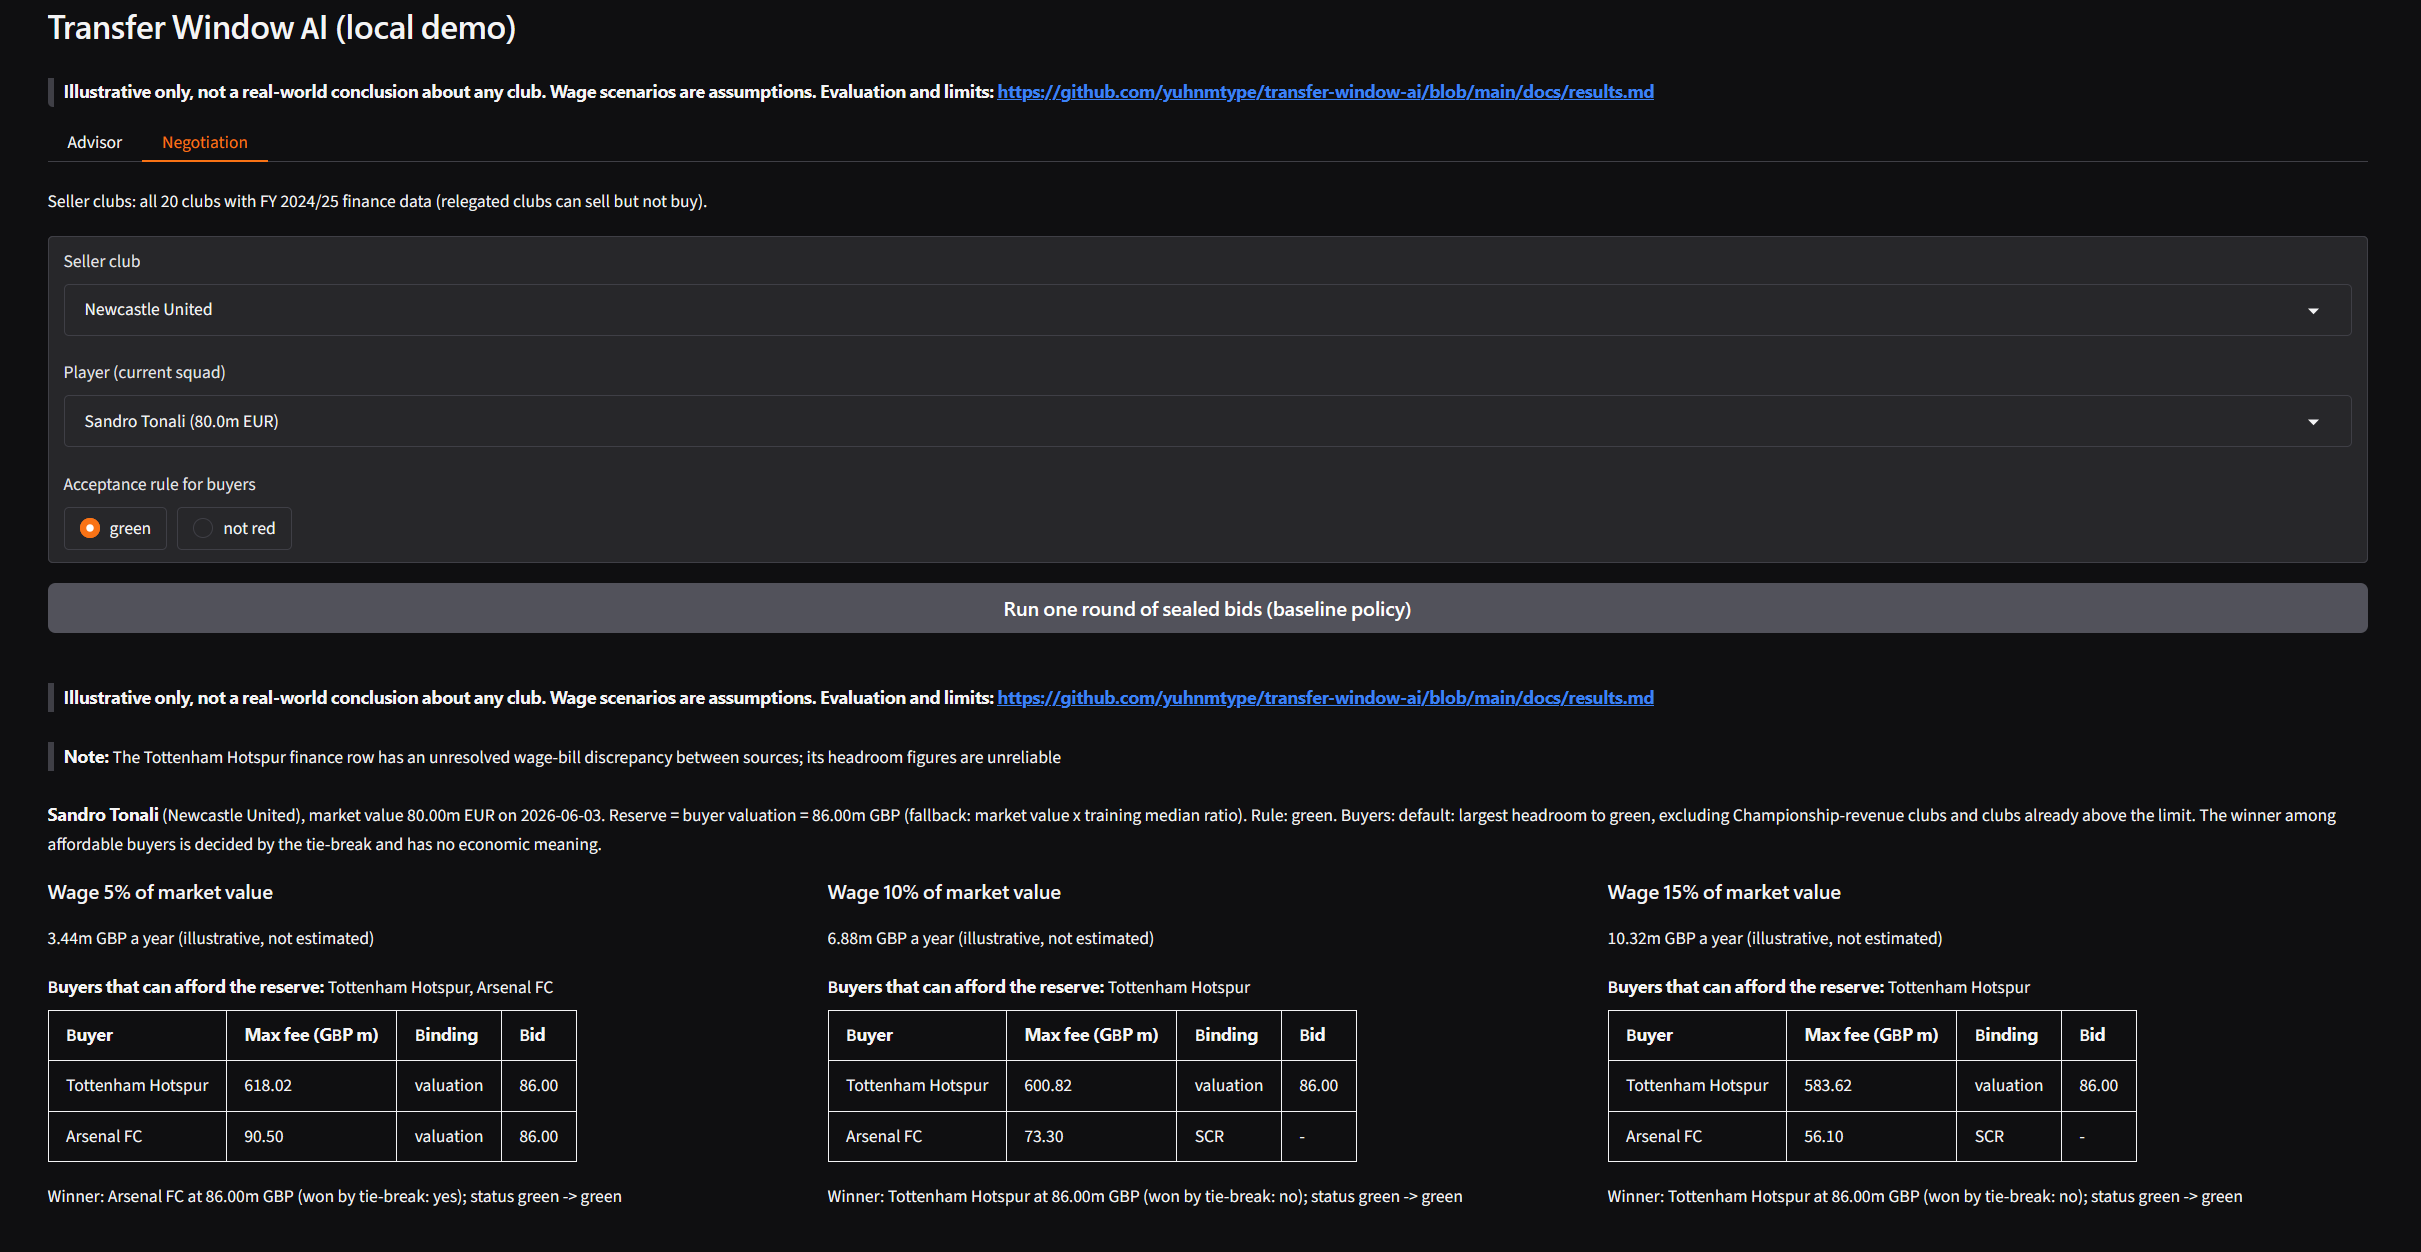
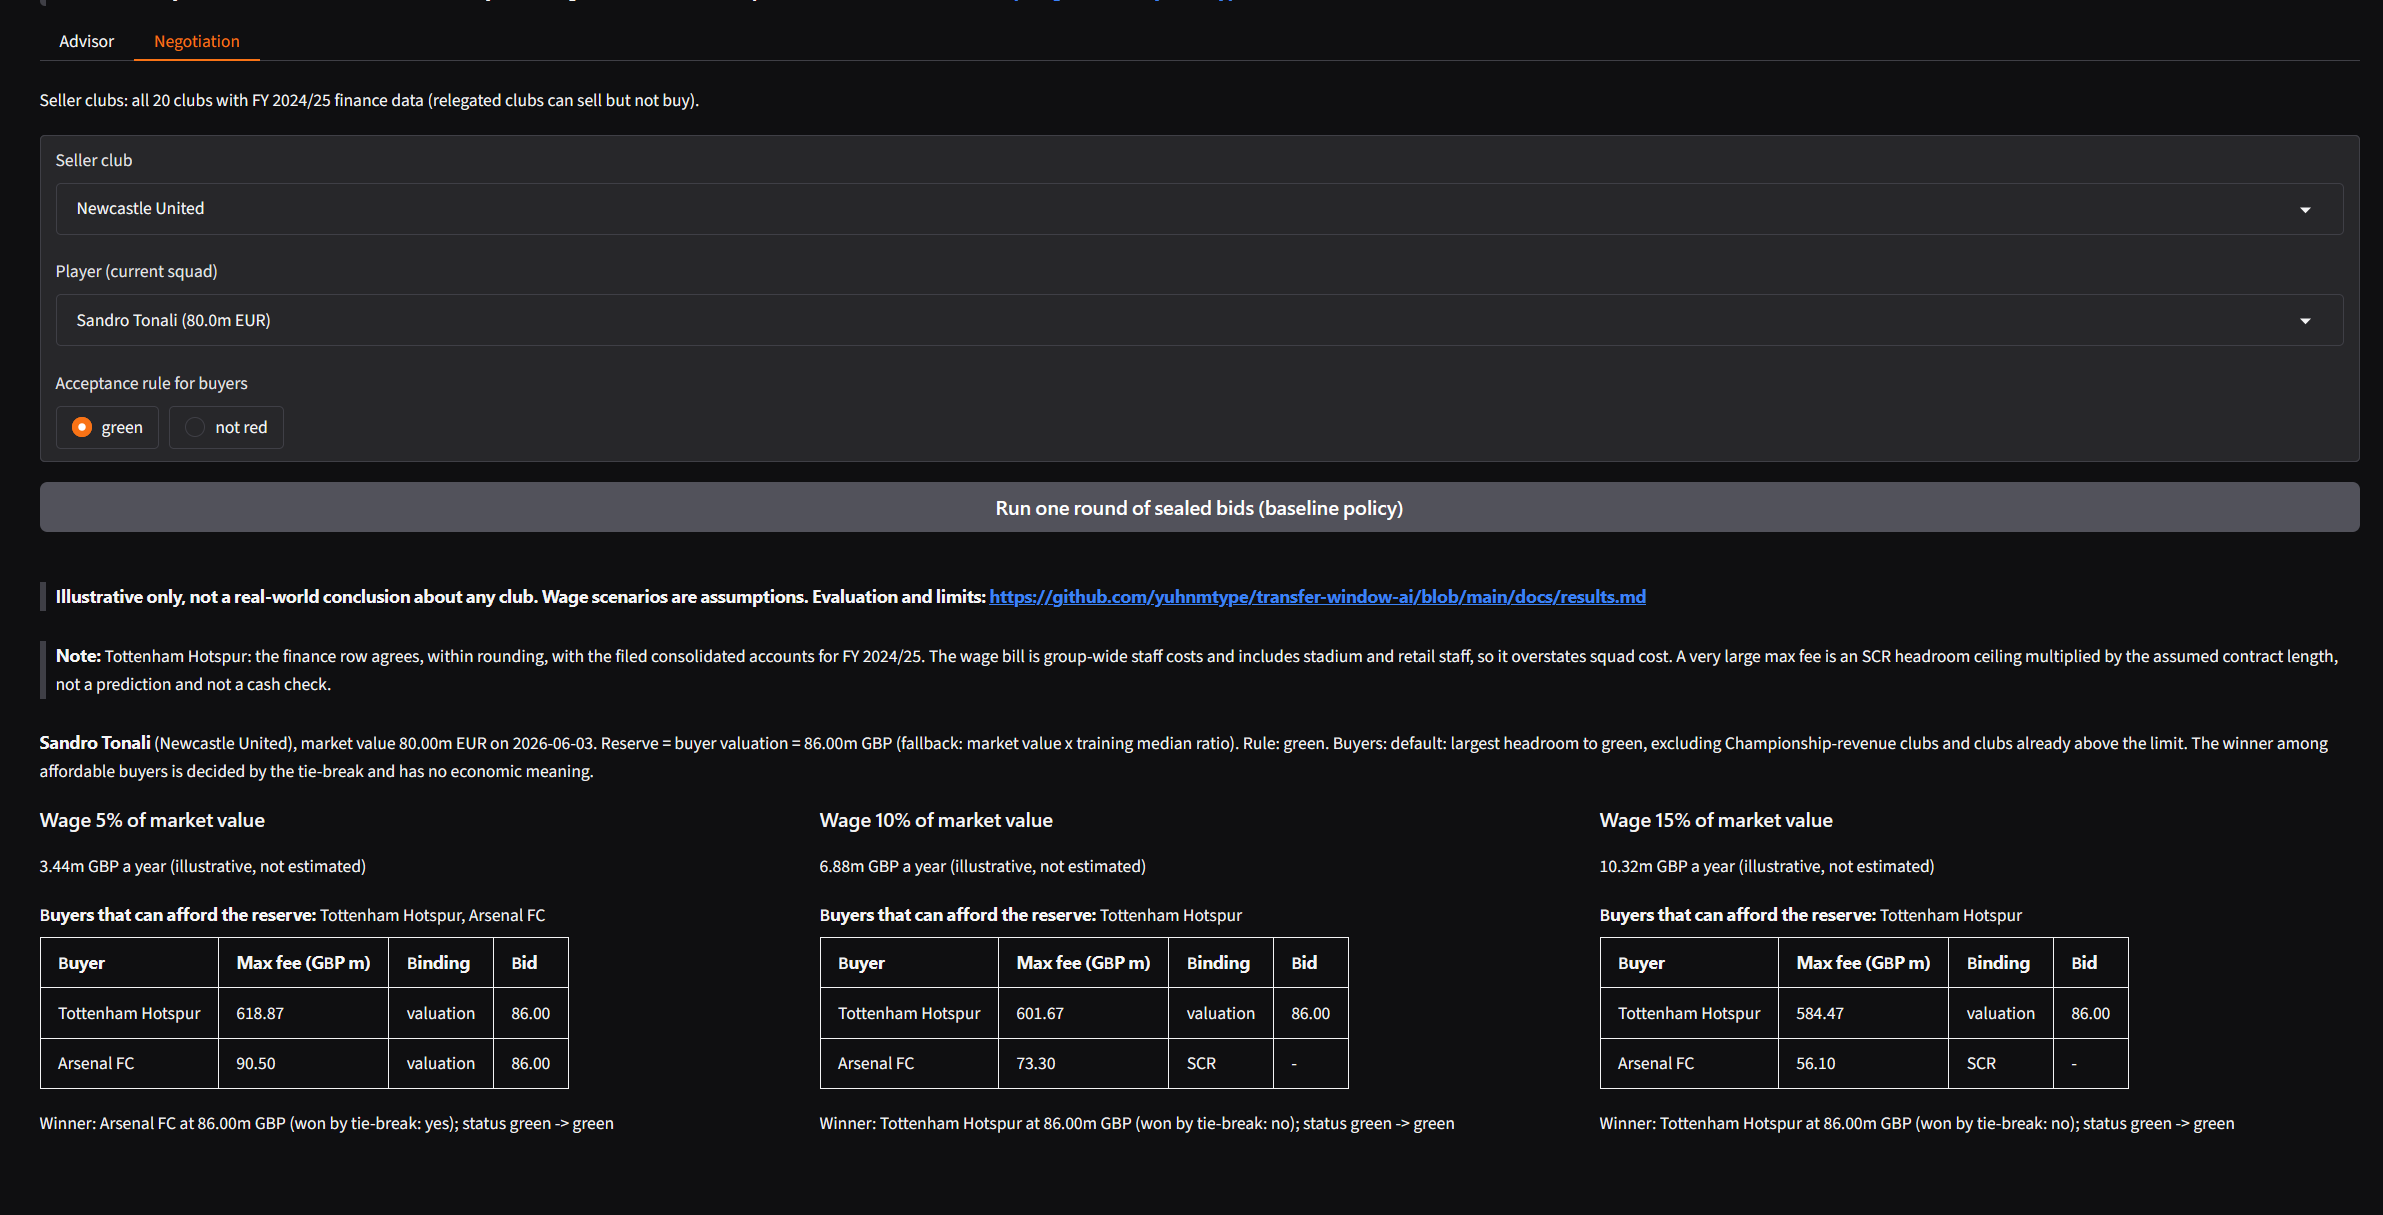
docs: refresh demo outputs and screenshots after Tottenham check
Regenerate the pasted outputs in docs/demo_deals.md from commit
723192e (Tottenham headroom and max fee change because profit on
player sales moved from 52.4 to 52.6), replace the unresolved
wage-bill paragraph with a factual one, retake both demo screenshots
and update the README caption accordingly.

Changed region(s): [[0.0, 0.0, 0.9937, 0.9745]]

diff --git a/docs/demo_deals.md b/docs/demo_deals.md
@@ -4,7 +4,7 @@ Two illustrative runs of the v1 negotiation engine (baseline policy, one round o
 no LLM). They are illustrations, not real-world conclusions.
 
 Code: negotiation engine commit `83a8002`, demo picker commit `b1ff200`. The outputs below were
-produced from commit `b1ff200` on a clean working tree. The runs are read-only and
+produced from commit `723192e` on a clean working tree. The runs are read-only and
 deterministic.
 
 ## How the deals were chosen
@@ -37,9 +37,11 @@ The headline result is the **set of buyers that can afford the reserve** under e
 scenario. The winner among them is decided by the tie-break (smaller `club_id`) and has no
 economic meaning. Prices equal the fallback reserve (market value x 1.25, read from
 `results/fee_model_eval.json`) by construction; they are not market price forecasts. Wages are
-illustrative shares of market value, not estimates. Tottenham's large headroom rests on a wage
-bill that is ambiguous (about 256m at football-company level vs about 402m at group level), so
-its position in the default buyer list is uncertain.
+illustrative shares of market value, not estimates. The Tottenham Hotspur finance row was
+checked against its filed FY 2024/25 consolidated accounts (see `seed/SOURCES.md`); its 256m
+wage bill is group-wide staff costs, including stadium and retail staff, so it overstates squad
+cost. Tottenham's large max fee is an SCR headroom ceiling (headroom multiplied by the assumed
+contract length), not a prediction and not a cash check.
 
 ## Deal 1: Abdukodir Khusanov (Manchester City)
 
@@ -72,21 +74,21 @@ Rule: buyer must stay green. Contract 5 years (assumption); agent fee 0.0 (assum
 === Wage scenario 5% of market value (2.15m GBP a year, illustrative, not estimated) ===
 Buyers that can afford the reserve: Tottenham Hotspur, Arsenal FC
   buyer                     before  headroom   max fee      bid  binding
-  Tottenham Hotspur          green    127.04    624.47    53.75  valuation
+  Tottenham Hotspur          green    127.21    625.32    53.75  valuation
   Arsenal FC                 green     21.54     96.95    53.75  valuation
 Deal: yes. Winner Arsenal FC at 53.75m GBP (won_by_tiebreak: yes, tied with [148]); status green -> green, headroom 21.54 -> 8.64
 
 === Wage scenario 10% of market value (4.30m GBP a year, illustrative, not estimated) ===
 Buyers that can afford the reserve: Tottenham Hotspur, Arsenal FC
   buyer                     before  headroom   max fee      bid  binding
-  Tottenham Hotspur          green    127.04    613.72    53.75  valuation
+  Tottenham Hotspur          green    127.21    614.57    53.75  valuation
   Arsenal FC                 green     21.54     86.20    53.75  valuation
 Deal: yes. Winner Arsenal FC at 53.75m GBP (won_by_tiebreak: yes, tied with [148]); status green -> green, headroom 21.54 -> 6.49
 
 === Wage scenario 15% of market value (6.45m GBP a year, illustrative, not estimated) ===
 Buyers that can afford the reserve: Tottenham Hotspur, Arsenal FC
   buyer                     before  headroom   max fee      bid  binding
-  Tottenham Hotspur          green    127.04    602.97    53.75  valuation
+  Tottenham Hotspur          green    127.21    603.82    53.75  valuation
   Arsenal FC                 green     21.54     75.45    53.75  valuation
 Deal: yes. Winner Arsenal FC at 53.75m GBP (won_by_tiebreak: yes, tied with [148]); status green -> green, headroom 21.54 -> 4.34
 
@@ -95,15 +97,15 @@ Log:
   Reserve = valuation = 1.25 x MV = 62.50m EUR = 53.75m GBP (fallback: market value x training median ratio).
   Buyers (default: largest headroom to green, excluding Championship-revenue clubs and clubs already above the limit): [148, 11]. Acceptance rule: green.
   Scenario wage = 5% of MV = 2.15m GBP a year (illustrative, not estimated).
-    Tottenham Hotspur: headroom to green limit 127.04, max fee 624.47, binding valuation, bid 53.75.
+    Tottenham Hotspur: headroom to green limit 127.21, max fee 625.32, binding valuation, bid 53.75.
     Arsenal FC: headroom to green limit 21.54, max fee 96.95, binding valuation, bid 53.75.
     Affordable: ['Tottenham Hotspur', 'Arsenal FC']. Winner Arsenal FC at 53.75m GBP (won_by_tiebreak=True).
   Scenario wage = 10% of MV = 4.30m GBP a year (illustrative, not estimated).
-    Tottenham Hotspur: headroom to green limit 127.04, max fee 613.72, binding valuation, bid 53.75.
+    Tottenham Hotspur: headroom to green limit 127.21, max fee 614.57, binding valuation, bid 53.75.
     Arsenal FC: headroom to green limit 21.54, max fee 86.20, binding valuation, bid 53.75.
     Affordable: ['Tottenham Hotspur', 'Arsenal FC']. Winner Arsenal FC at 53.75m GBP (won_by_tiebreak=True).
   Scenario wage = 15% of MV = 6.45m GBP a year (illustrative, not estimated).
-    Tottenham Hotspur: headroom to green limit 127.04, max fee 602.97, binding valuation, bid 53.75.
+    Tottenham Hotspur: headroom to green limit 127.21, max fee 603.82, binding valuation, bid 53.75.
     Arsenal FC: headroom to green limit 21.54, max fee 75.45, binding valuation, bid 53.75.
     Affordable: ['Tottenham Hotspur', 'Arsenal FC']. Winner Arsenal FC at 53.75m GBP (won_by_tiebreak=True).
 
@@ -138,38 +140,38 @@ Rule: buyer must stay green. Contract 5 years (assumption); agent fee 0.0 (assum
 === Wage scenario 5% of market value (3.44m GBP a year, illustrative, not estimated) ===
 Buyers that can afford the reserve: Tottenham Hotspur, Arsenal FC
   buyer                     before  headroom   max fee      bid  binding
-  Tottenham Hotspur          green    127.04    618.02    86.00  valuation
+  Tottenham Hotspur          green    127.21    618.87    86.00  valuation
   Arsenal FC                 green     21.54     90.50    86.00  valuation
 Deal: yes. Winner Arsenal FC at 86.00m GBP (won_by_tiebreak: yes, tied with [148]); status green -> green, headroom 21.54 -> 0.90
 
 === Wage scenario 10% of market value (6.88m GBP a year, illustrative, not estimated) ===
 Buyers that can afford the reserve: Tottenham Hotspur
   buyer                     before  headroom   max fee      bid  binding
-  Tottenham Hotspur          green    127.04    600.82    86.00  valuation
+  Tottenham Hotspur          green    127.21    601.67    86.00  valuation
   Arsenal FC                 green     21.54     73.30        -  SCR
-Deal: yes. Winner Tottenham Hotspur at 86.00m GBP (won_by_tiebreak: no); status green -> green, headroom 127.04 -> 102.96
+Deal: yes. Winner Tottenham Hotspur at 86.00m GBP (won_by_tiebreak: no); status green -> green, headroom 127.21 -> 103.13
 
 === Wage scenario 15% of market value (10.32m GBP a year, illustrative, not estimated) ===
 Buyers that can afford the reserve: Tottenham Hotspur
   buyer                     before  headroom   max fee      bid  binding
-  Tottenham Hotspur          green    127.04    583.62    86.00  valuation
+  Tottenham Hotspur          green    127.21    584.47    86.00  valuation
   Arsenal FC                 green     21.54     56.10        -  SCR
-Deal: yes. Winner Tottenham Hotspur at 86.00m GBP (won_by_tiebreak: no); status green -> green, headroom 127.04 -> 99.52
+Deal: yes. Winner Tottenham Hotspur at 86.00m GBP (won_by_tiebreak: no); status green -> green, headroom 127.21 -> 99.69
 
 Log:
   Player Sandro Tonali (player_id 397033) at Newcastle United; market value 80.00m EUR on 2026-06-03.
   Reserve = valuation = 1.25 x MV = 100.00m EUR = 86.00m GBP (fallback: market value x training median ratio).
   Buyers (default: largest headroom to green, excluding Championship-revenue clubs and clubs already above the limit): [148, 11]. Acceptance rule: green.
   Scenario wage = 5% of MV = 3.44m GBP a year (illustrative, not estimated).
-    Tottenham Hotspur: headroom to green limit 127.04, max fee 618.02, binding valuation, bid 86.00.
+    Tottenham Hotspur: headroom to green limit 127.21, max fee 618.87, binding valuation, bid 86.00.
     Arsenal FC: headroom to green limit 21.54, max fee 90.50, binding valuation, bid 86.00.
     Affordable: ['Tottenham Hotspur', 'Arsenal FC']. Winner Arsenal FC at 86.00m GBP (won_by_tiebreak=True).
   Scenario wage = 10% of MV = 6.88m GBP a year (illustrative, not estimated).
-    Tottenham Hotspur: headroom to green limit 127.04, max fee 600.82, binding valuation, bid 86.00.
+    Tottenham Hotspur: headroom to green limit 127.21, max fee 601.67, binding valuation, bid 86.00.
     Arsenal FC: headroom to green limit 21.54, max fee 73.30, binding SCR, bid none.
     Affordable: ['Tottenham Hotspur']. Winner Tottenham Hotspur at 86.00m GBP (won_by_tiebreak=False).
   Scenario wage = 15% of MV = 10.32m GBP a year (illustrative, not estimated).
-    Tottenham Hotspur: headroom to green limit 127.04, max fee 583.62, binding valuation, bid 86.00.
+    Tottenham Hotspur: headroom to green limit 127.21, max fee 584.47, binding valuation, bid 86.00.
     Arsenal FC: headroom to green limit 21.54, max fee 56.10, binding SCR, bid none.
     Affordable: ['Tottenham Hotspur']. Winner Tottenham Hotspur at 86.00m GBP (won_by_tiebreak=False).
 

diff --git a/README.md b/README.md
@@ -137,10 +137,10 @@ Then open http://127.0.0.1:7860.
 <img src="docs/images/demo_negotiation.png" width="800" alt="Negotiation tab: one round of sealed bids for Sandro Tonali (Newcastle United) under three wage scenarios, rule green, baseline policy">
 
 Screenshots of the local Gradio demo; the demo is not publicly hosted. Illustrative only, not a
-real-world conclusion about any club; wage scenarios are assumptions. The Tottenham Hotspur
-finance row has an unresolved wage-bill discrepancy between sources, so its headroom figures
-(including the very large max fee in the negotiation screenshot) are unreliable; see
-Limitations.
+real-world conclusion about any club; wage scenarios are assumptions. In the negotiation
+screenshot, the large max fee for Tottenham Hotspur is an SCR headroom ceiling (headroom
+multiplied by the assumed contract length), not a prediction and not a cash check; its finance
+row was checked against the filed accounts (see Limitations).
 
 ## Reproducibility
 
